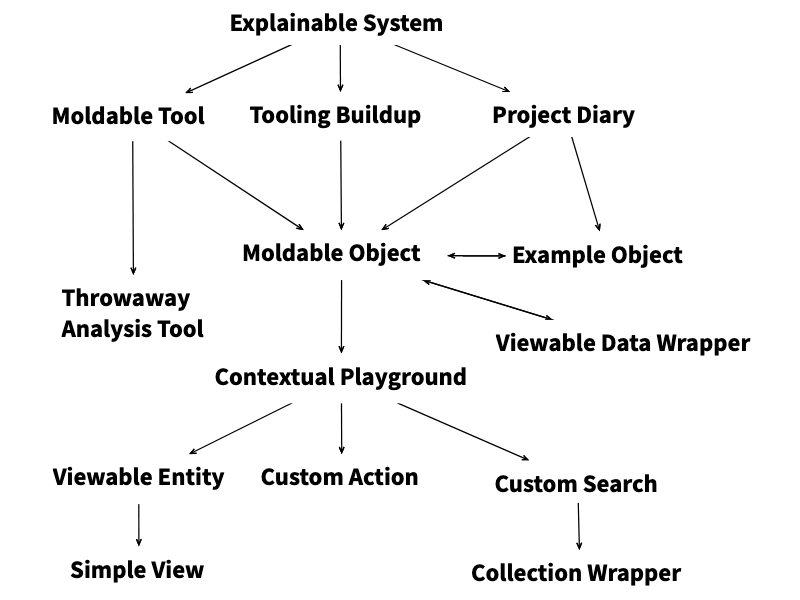
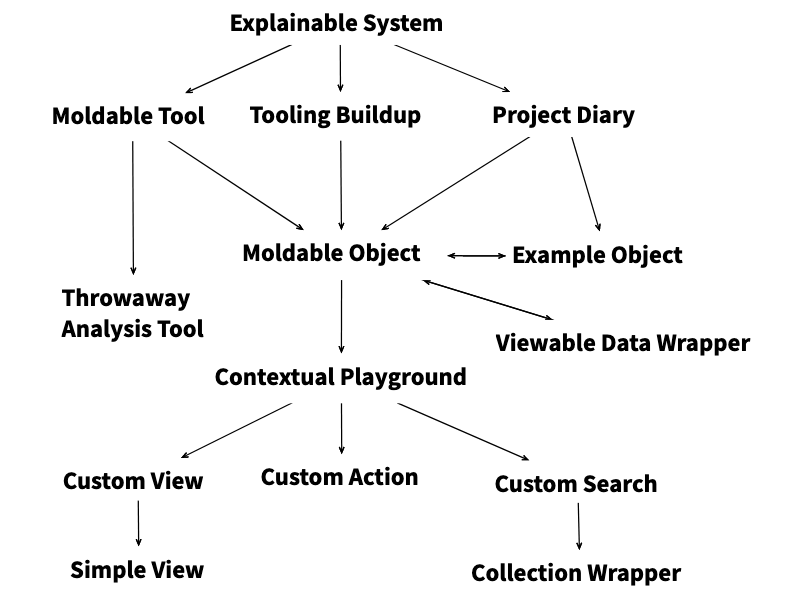
Finished draft of intro and pattern overview

Changed region(s): [[0.0625, 0.75, 0.2812, 0.9]]

diff --git a/moldablePatterns.tex b/moldablePatterns.tex
@@ -172,7 +172,8 @@
 \newcommand{\etal}{\emph{et al.}\xspace}
 \newcommand{\etc}{\emph{etc.}\xspace}
 % ============================================================
-\newcommand{\st}[1]{{\tt #1}}
+\newcommand{\st}[1]{{\tt #1}\xspace}
+\newcommand{\pattern}[1]{\emph{\nameref{pat:#1}}\xspace}
 % ============================================================
 \begin{document}
 
@@ -213,7 +214,7 @@ Moldable Development is a way to support decision-making by molding the developm
 \maketitle
 
 % ===== Introduction =========================
-\section{Introduction}
+\section{Introduction: Moldable development in a Nutshell}
 
 Software systems are rich sources of knowledge for both developers and non-technical stakeholders.
 But it is difficult to extract that knowledge.
@@ -225,15 +226,15 @@ The usual views of software systems are
 But neither of these lends itself well to answering questions about the system.
 Software analysis tools can help to some extent, but since every system and every problem is different, it is rare for generic analysis tools to scale to arbitrary systems.
 
-Moldable development is an approach to constructing software systems that are \emph{explainable}.
-This is achieved by making it cheap to create dozens, hundreds or even thousands of custom tools to answers questions about a software system, \emph{as these questions arise}.
-These custom tools consist of small extensions to the \emph{moldable} tools of the IDE, such as the object inspector, the code browser, the debugger and the notebook.
-
 \begin{figure}[h]
   \includegraphics[width=\columnwidth]{custom-views}
   \caption{Custom views of a Ludo game.}
   \label{fig:ludo-views}
 \end{figure}
+
+Moldable development is an approach to constructing software systems that are \emph{explainable}.
+This is achieved by making it cheap to create dozens, hundreds or even thousands of custom tools to answers questions about a software system, \emph{as these questions arise}.
+These custom tools consist of small extensions to the \emph{moldable} tools of the IDE, such as the object inspector, the code browser, the debugger and the notebook.
 
 As a simple example, consider the Inspector views of a Ludo game implementation in \autoref{fig:ludo-views}.
 With a conventional implementation, we can either try to play the game interactively, or we can stare at the source code.
@@ -247,12 +248,19 @@ In the second pane we can explore the moves of  the completed game, and in the t
 The \st{Move} view visualizes the actual move performed in the context of the current game state at that point in time.
 Each of these views is achieved with just a few lines of code, and leads to the Ludo game becoming an explainable system that can be explored in ways that are far richer and more intuitive than by trying to read source code.
 
-Of course, this begs the question how to actually
+Of course, this begs the question how to actually apply moldable development in practice.
+Moldable development is a way to make systems explainable.
+This means making the domain model of a software system visible and explorable through custom tools.
+This in turn suggests that there are two distinct roles involved in moldable development:
+\begin{inparaenum}[(i)]
+\item the \emph{Facilitator} is responsible for the technical realization of custom tools, and
+\item the \emph{Stakeholder} is responsible for the domain model and questions about the domain that should be answered by the custom tools.
+\end{inparaenum}
+In a purely technical domain, these two roles can often be played by the same person (\ie a developer), but in general they may be distinct people.
 
 
-\todo{explain Facilitator and Stakeholder}
-
-\todo{introduce map}
+% ===== Moldable Development Patterns =========================
+\section{Moldable Development Patterns}
 
 \begin{figure}[h]
   \includegraphics[width=\columnwidth]{map}
@@ -260,14 +268,33 @@ Of course, this begs the question how to actually
   \label{fig:map}
 \end{figure}
 
+Moldable development can be understood in terms of a collection of mutually supporting design and process patterns, summarized in \autoref{fig:map}.
+These patterns have emerged over several years of experience in developing the Glamorous Toolkit\footnote{\url{https://gtoolkit.com}} moldable development platform, and applying it to numerous systems.
+At the root we have the pattern \pattern{explainableSystem}, a software system whose domain model has been exposed with the help of numerous custom tools.
+Each custom tool requires the existence of a \pattern{moldableTool}, which can be cheaply adapted with a simple customization.
+Some domains require a preliminary phase of \pattern{toolingBuildup}, for example, to create dedicate parsers for programming languages, DSLs or specialized data formats, or bridges to other execution platforms.
+A \pattern{projectDiary} is a notebook that serves as a starting point for development tasks.
+A \pattern{throwawayAnalysisTool} can be a useful prototype to initially engage a Stakeholder by demonstrating the possibilities of moldable development.
 
-% ===== Moldable Development Patterns =========================
-\section{Moldable Development Patterns}
+Moldable development itself starts with a \pattern{moldableObject}, a live instance of a domain entity that is explored and molded with custom tools that package the results of exploration tasks.
+An interesting instance can be encapsulated as an \pattern{exampleObject}, essentially a unit test that returns a tested object.
+An example can be embedded in a project diary notebook page, and can also be used as a moldable object itself for further development tasks.
+In case the domain includes already existing data entities, these can be wrapped in a \pattern{viewableDataWrapper} to produce a moldable object.
+
+A moldable object can be explored with the help of its \pattern{contextualPlayground}, a live programming environment bound to the state of a live instance.
+Working code can be extracted from such a playground to create custom tools.
+The most common of these tools are:
+\begin{inparaenum}[(i)]
+\item a \pattern{customView}, a dedicated view of an object within a moldable tool such as an object inspector or a code browser, to display or visualize domain-specific information,
+\item a \pattern{customAction} that encapsulates a useful domain action, and
+\item a \pattern{customSearch}, to perform an ad hoc query over objects reachable from a given moldable object.
+\end{inparaenum}
+A custom view is frequently a \pattern{simpleView} that can be quickly prototype, and later extended.
+A custom search often benefits from a \pattern{collectionWrapper}, to allow the results of a query to be also molded with custom tools.
 
 
-
-% ----- PATTERN -------------------------
-\subsection{Explainable System}
+% ----- Explainable System -------------------------
+\subsection*{Explainable System}\label{pat:explainableSystem}
 \subsubsection*{Context}
 \subsubsection*{Problem}
 \subsubsection*{Forces}
@@ -276,8 +303,8 @@ Of course, this begs the question how to actually
 
 
 
-% ----- PATTERN -------------------------
-\subsection{Moldable Tool}
+% ----- Moldable Tool -------------------------
+\subsection*{Moldable Tool}\label{pat:moldableTool}
 \cite{Chis17a}
 \subsubsection*{Context}
 \subsubsection*{Problem}
@@ -287,8 +314,8 @@ Of course, this begs the question how to actually
 
 
 
-% ----- PATTERN -------------------------
-\subsection{Tooling Buildup}
+% ----- Tooling Buildup -------------------------
+\subsection*{Tooling Buildup}\label{pat:toolingBuildup}
 \subsubsection*{Context}
 \subsubsection*{Problem}
 \subsubsection*{Forces}
@@ -298,7 +325,7 @@ Of course, this begs the question how to actually
 
 
 % ----- Throwaway Analysis Tool -------------------------
-\subsection{Throwaway Analysis Tool}
+\subsection*{Throwaway Analysis Tool}\label{pat:throwawayAnalysisTool}
 \subsubsection*{Context}
 \subsubsection*{Problem}
 \subsubsection*{Forces}
@@ -307,7 +334,7 @@ Of course, this begs the question how to actually
 
 
 % ----- Project Diary -------------------------
-\subsection{Project Diary}
+\subsection*{Project Diary}\label{pat:projectDiary}
 \subsubsection*{Context}
 \subsubsection*{Problem}
 \subsubsection*{Forces}
@@ -316,7 +343,7 @@ Of course, this begs the question how to actually
 
 
 % ----- Moldable Object -------------------------
-\subsection{Moldable Object}
+\subsection*{Moldable Object}\label{pat:moldableObject}
 \subsubsection*{Context}
 \subsubsection*{Problem}
 \subsubsection*{Forces}
@@ -324,7 +351,7 @@ Of course, this begs the question how to actually
 \subsubsection*{Consequences}
 
 % ----- Example Object -------------------------
-\subsection{Example Object}
+\subsection*{Example Object}\label{pat:exampleObject}
 \subsubsection*{Context}
 \subsubsection*{Problem}
 \subsubsection*{Forces}
@@ -332,7 +359,7 @@ Of course, this begs the question how to actually
 \subsubsection*{Consequences}
 
 % ----- Viewable Data Wrapper -------------------------
-\subsection{Viewable Data Wrapper}
+\subsection*{Viewable Data Wrapper}\label{pat:viewableDataWrapper}
 \subsubsection*{Context}
 \subsubsection*{Problem}
 \subsubsection*{Forces}
@@ -341,7 +368,7 @@ Of course, this begs the question how to actually
 
 
 % ----- Contextual Playground -------------------------
-\subsection{Contextual Playground}
+\subsection*{Contextual Playground}\label{pat:contextualPlayground}
 \subsubsection*{Context}
 \subsubsection*{Problem}
 \subsubsection*{Forces}
@@ -349,8 +376,9 @@ Of course, this begs the question how to actually
 \subsubsection*{Consequences}
 
 
-% ----- Viewable Entity -------------------------
-\subsection{Viewable Entity}
+% ----- Custom View -------------------------
+\subsection*{Custom View}\label{pat:customView}
+% AKA Viewable Entity
 \subsubsection*{Context}
 \subsubsection*{Problem}
 \subsubsection*{Forces}
@@ -360,7 +388,7 @@ Of course, this begs the question how to actually
 
 
 % ----- Simple View -------------------------
-\subsection{Simple View}
+\subsection*{Simple View}\label{pat:simpleView}
 \subsubsection*{Context}
 \subsubsection*{Problem}
 \subsubsection*{Forces}
@@ -370,7 +398,7 @@ Of course, this begs the question how to actually
 
 
 % ----- Custom Action -------------------------
-\subsection{Custom Action}
+\subsection*{Custom Action}\label{pat:customAction}
 \subsubsection*{Context}
 \subsubsection*{Problem}
 \subsubsection*{Forces}
@@ -378,8 +406,8 @@ Of course, this begs the question how to actually
 \subsubsection*{Consequences}
 
 
-% ----- PATTERN -------------------------
-\subsection{Custom Search}
+% ----- Custom Search -------------------------
+\subsection*{Custom Search}\label{pat:customSearch}
 \subsubsection*{Context}
 \subsubsection*{Problem}
 \subsubsection*{Forces}
@@ -388,7 +416,7 @@ Of course, this begs the question how to actually
 
 
 % ----- Collection Wrapper -------------------------
-\subsection{Collection Wrapper}
+\subsection*{Collection Wrapper}\label{pat:collectionWrapper}
 \subsubsection*{Context}
 \subsubsection*{Problem}
 \subsubsection*{Forces}
@@ -407,10 +435,8 @@ Of course, this begs the question how to actually
 
 % ===== TEMPLATES =========================
 
-
-
 % ----- PATTERN -------------------------
-\subsection{PATTERN}
+\subsection*{PATTERN}\label{pat:PATTERN}
 \subsubsection*{Context}
 \subsubsection*{Problem}
 \subsubsection*{Forces}
